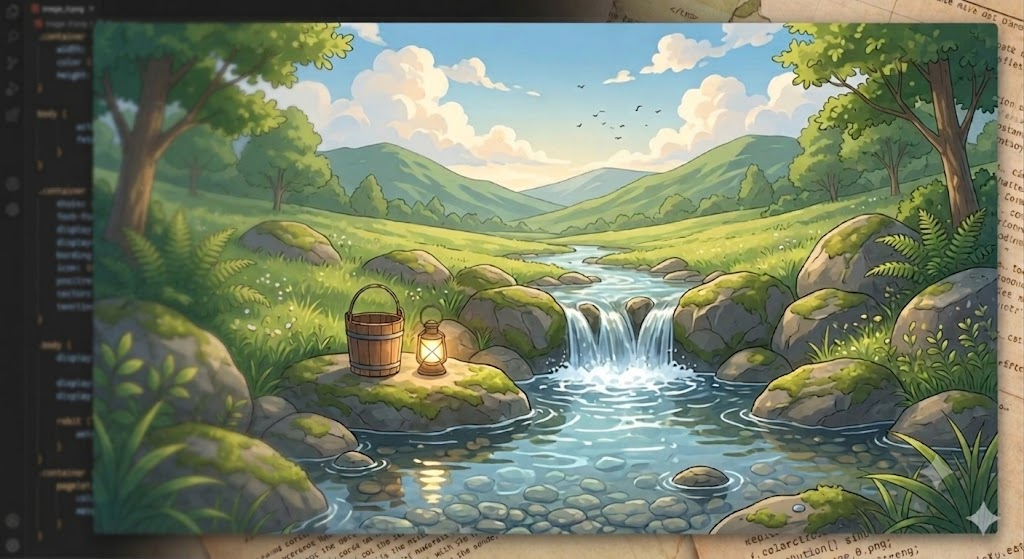
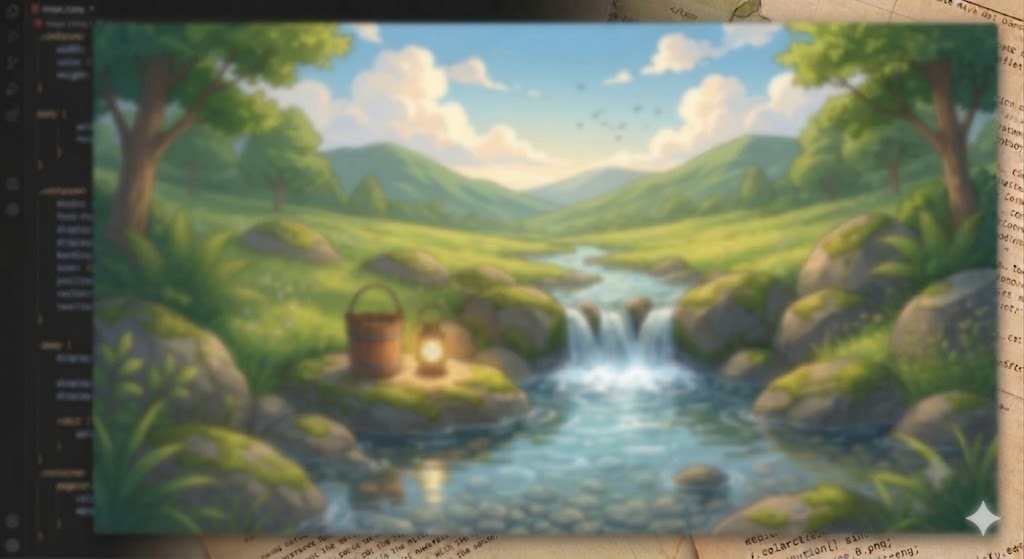
fixxx

diff --git a/frontend/templates/index.html b/frontend/templates/index.html
@@ -13,29 +13,23 @@
 	<body>
 		<div id="time-display"></div>
 
-		<div class="container section-card">
-			<h3 class="section-title">🤖 AI 智慧諮詢</h3>
-			<div class="input-group">
-				<input
-					id="middle-input"
-					type="text"
-					placeholder="輸入問題詢問 AI..."
-				/>
-				<button id="require-LLM-button">
-					<canvas
-						id="llm-button-icon"
-						width="273"
-						height="269"
-					></canvas>
-				</button>
-			</div>
-		</div>
+		<div class="container intro-section" >
+            <h1>探索釣魚的樂趣，<br>紀錄每一次收線的感動。</h1>
+            <p>歡迎來到我們的網頁。在這裡，你可以一鍵查詢全台即時潮汐、利用 AI 快速探索魚種，並將你的個人私房釣點數位化，輕鬆記錄你的充實釣魚生活！</p>
+        </div>
+
+        <nav class="sticky-nav">
+			<a href="#fish-container" class="nav-item">捕捉魚種</a>
+			<a href="#section-spot" class="nav-item">釣點管理</a>
+			<a href="#section-tide" class="nav-item">區域潮汐</a>
+			<a href="#section-ai" class="nav-item">AI 諮詢</a>
+		</nav>
 
 		<div id="fish-container" class="container section-card">
-			<h3 class="section-title">🎣 魚種快速探索</h3>
+			<h3 class="section-title">🎣 今日捕捉魚種</h3>
 			<div class="fish-action-row">
 				<div id="display-area">準備抽魚...</div>
-				<button id="random-button">開抽</button>
+				<button id="random-button">捕捉!</button>
 			</div>
 		</div>
 
@@ -97,6 +91,24 @@
 			<div id="all-charts-wrapper" class="charts-scroll-container"></div>
 		</div>
 
+        <div class="container section-card">
+			<h3 class="section-title">🤖 AI 智慧諮詢</h3>
+			<div class="input-group">
+				<input
+					id="middle-input"
+					type="text"
+					placeholder="輸入問題詢問 AI..."
+				/>
+				<button id="require-LLM-button">
+					<canvas
+						id="llm-button-icon"
+						width="273"
+						height="269"
+					></canvas>
+				</button>
+			</div>
+		</div>
+
 		<div class="container logout-container">
 			<a href="{{ url_for('logout') }}" class="logout-link">安全登出</a>
 		</div>
@@ -105,8 +117,8 @@
 		<script src="https://unpkg.com/leaflet@1.9.4/dist/leaflet.js"></script>
 		<script src="{{ url_for('static', filename='javascript/random.js') }}"></script>
 		<script src="{{ url_for('static', filename='javascript/script.js') }}"></script>
-		<script src="{{ url_for('static', filename='date.js') }}"></script>
-		<script src="{{ url_for('static', filename='llmrequest.js') }}"></script>
+		<script src="{{ url_for('static', filename='javascript/date.js') }}"></script>
+		<script src="{{ url_for('static', filename='javascript/llmrequest.js') }}"></script>
 		<script
 			src="https://cdn.plot.ly/plotly-2.24.1.min.js"
 			charset="utf-8"

diff --git a/frontend/static/styles/index.css b/frontend/static/styles/index.css
@@ -11,7 +11,7 @@
 	--accent-orange-hover: #d66c00;
 	--bg-color: #f4f7fa; /* 柔和的灰藍色背景 */
 	--card-bg: #ffffff; /* 卡片純白背景 */
-	--border-color: #e2e8f0;
+	--border-color: #392c2c;
 	--text-main: #2b2d42; /* 深色文字 */
 	--text-muted: #64748b;
 	--border-radius-lg: 16px;
@@ -33,12 +33,18 @@ body {
 	color: var(--text-main);
 	min-height: 100vh;
 	box-sizing: border-box;
+
+    background-image: url('../images/Homepage-background.jpeg');
+    background-size: cover;
+    background-position: center;
+    background-repeat: no-repeat;
+    background-attachment: fixed; 
 }
 
 #time-display {
 	font-size: 1.6rem;
 	font-weight: 700;
-	color: var(--primary-blue);
+	color: black;
 	text-align: center;
 	letter-spacing: 1px;
 }
@@ -51,7 +57,7 @@ body {
 	border-radius: var(--border-radius-lg);
 	box-sizing: border-box;
 	width: 100%;
-	max-width: 700px; /* 收緊最大寬度，聚焦操作視野 */
+	max-width: 775px; /* 收緊最大寬度，聚焦操作視野 */
 	padding: 24px;
 	transition:
 		transform 0.2s ease,
@@ -115,24 +121,26 @@ body {
 /* ==========================================
    2. 首頁頂部橫幅區塊
 ========================================== */
-#top-box {
-	padding: 0;
-	height: 180px; /* 修正原本過高佔畫面的問題 */
-	display: flex;
-	flex-direction: column;
-	overflow: hidden;
+.intro-section {
+    background: linear-gradient(135deg, #e0f2fe, #bae6fd);
+    padding: 40px;
+    border-radius: 16px;
+    width: 100%;
+    max-width: 775px;       
+    box-sizing: border-box;
+
+    margin-bottom: 40px;
 }
 
-.top-content {
-	flex: 1;
-	background-image: linear-gradient(135deg, #e0f2fe 0%, #bae6fd 100%);
-	display: flex;
-	align-items: center;
-	justify-content: center;
+.intro-section h1 {
+    font-size: 28px;
+    color: #0f172a;
+    line-height: 1.4;
+    margin: 0 0 16px 0;
 }
 
 .intro-section p {
-    font-size: 16px;
+    font-size: 18px;
     color: #334155;
     line-height: 1.6;
     margin: 0;
